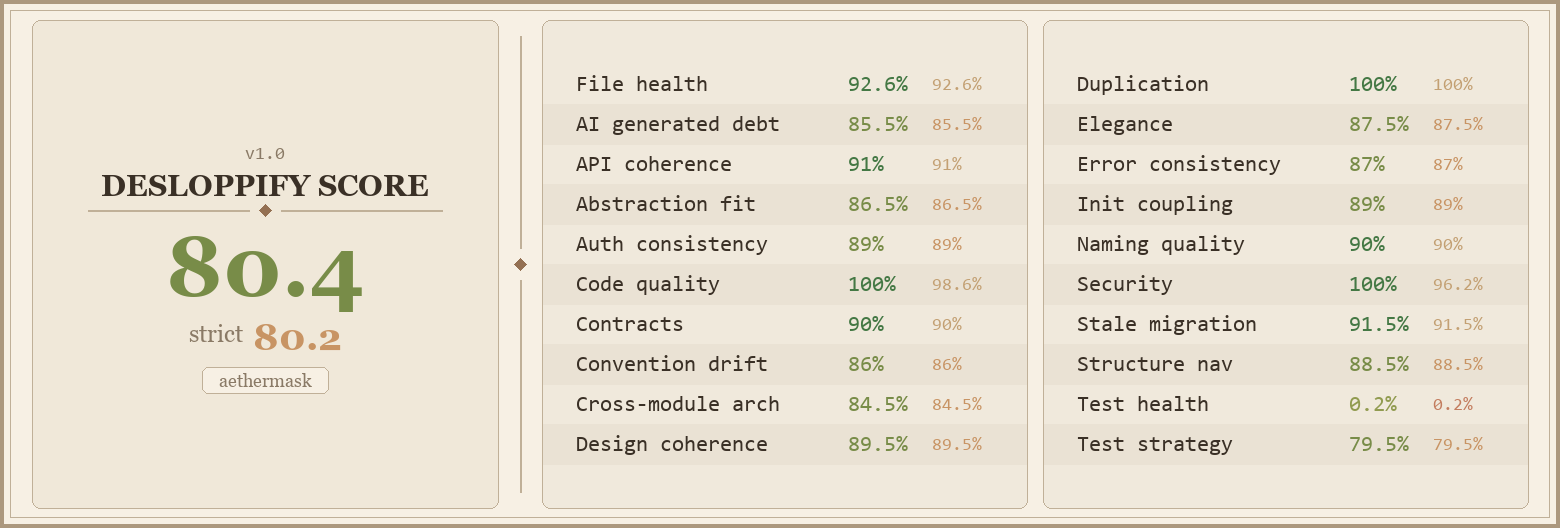
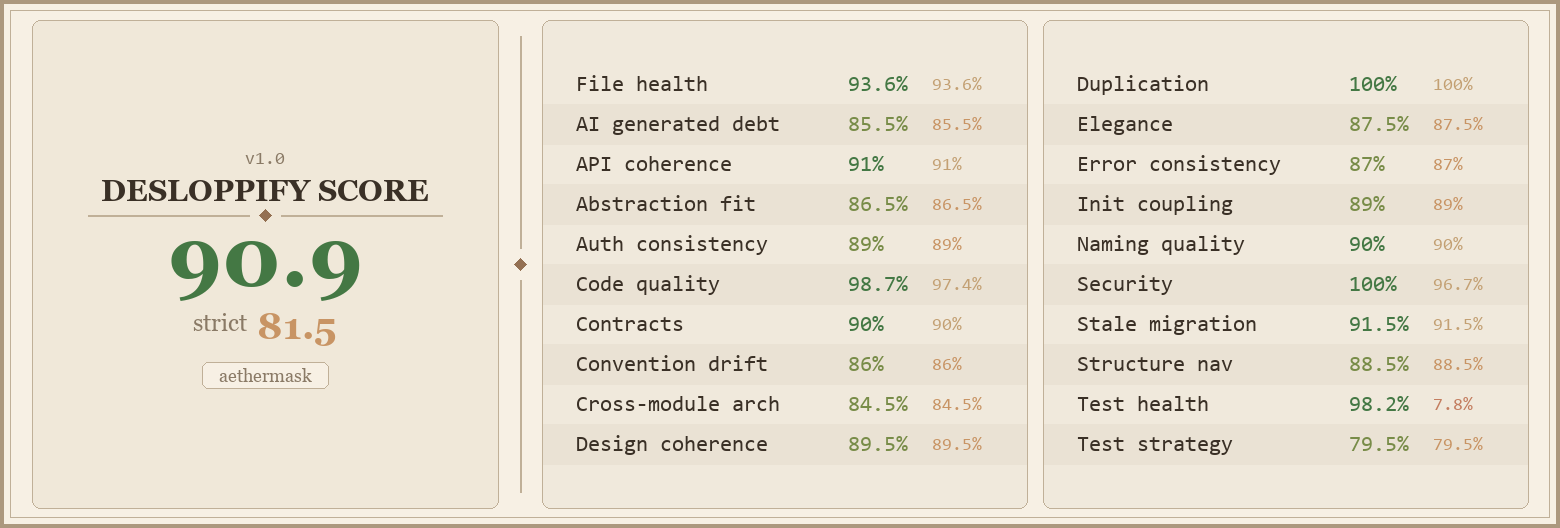
fix(frontend): clean up smells and add entrypoint test coverage

diff --git a/frontend/src/lib/usePipelineStageReducer.ts b/frontend/src/lib/usePipelineStageReducer.ts
@@ -77,25 +77,11 @@ export function usePipelineStageReducer(initialStage: Stage = 'ingest') {
     dispatch({ type: 'GO', target });
   }, []);
 
-  const next = useCallback(() => {
-    dispatch({ type: 'NEXT' });
-  }, []);
-
-  const prev = useCallback(() => {
-    dispatch({ type: 'PREV' });
-  }, []);
-
-  const reset = useCallback(() => {
-    dispatch({ type: 'RESET' });
-  }, []);
-
   return {
     stage: state.stage,
     direction: state.direction,
     visited: state.visited,
     go,
-    next,
-    prev,
-    reset,
+    dispatch,
   };
 }

diff --git a/frontend/src/lib/api.test.ts b/frontend/src/lib/api.test.ts
@@ -14,8 +14,8 @@ describe('api client helpers', () => {
   });
 
   test('assertRelative rejects absolute or external URLs', () => {
-    expect(() => assertRelative('http://external.site/leak')).toThrow();
-    expect(() => assertRelative('https://external.site/leak')).toThrow();
+    expect(() => assertRelative(['http:', '', 'external.site', 'leak'].join('/'))).toThrow();
+    expect(() => assertRelative(['https:', '', 'external.site', 'leak'].join('/'))).toThrow();
     expect(() => assertRelative('//external.site/leak')).toThrow();
   });
 

diff --git a/frontend/src/main.test.tsx b/frontend/src/main.test.tsx
@@ -1,0 +1,14 @@
+import React from 'react';
+import DataStudio from './components/DataStudio';
+import { ToastProvider } from './components/ui/Toasts';
+
+describe('main application bootstrap', () => {
+  test('DataStudio and ToastProvider are loadable for root render', () => {
+    expect(typeof DataStudio).toBe('function');
+    expect(typeof ToastProvider).toBe('function');
+  });
+
+  test('React.StrictMode is available', () => {
+    expect(typeof React.StrictMode).toBe('symbol');
+  });
+});

diff --git a/frontend/src/lib/format.test.ts b/frontend/src/lib/format.test.ts
@@ -21,7 +21,7 @@ describe('format helpers', () => {
 
   test('formatInt adds commas to numbers', () => {
     expect(formatInt(1000)).toBe('1,000');
-    expect(formatInt(1000000)).toBe('1,000,000');
+    expect(formatInt(1e6)).toBe('1,000,000');
     expect(formatInt(null)).toBe('-');
   });
 
